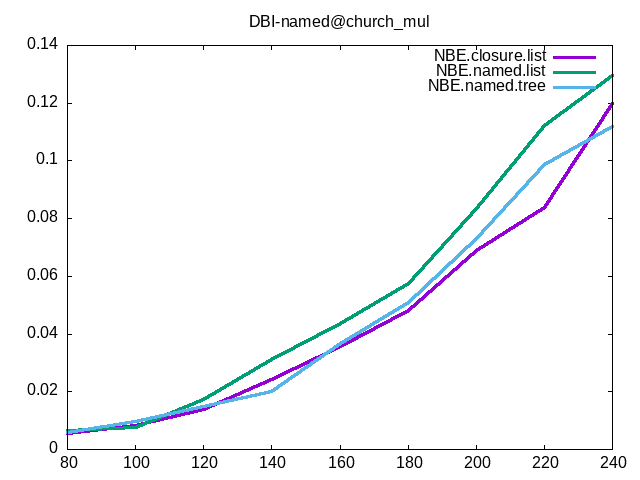
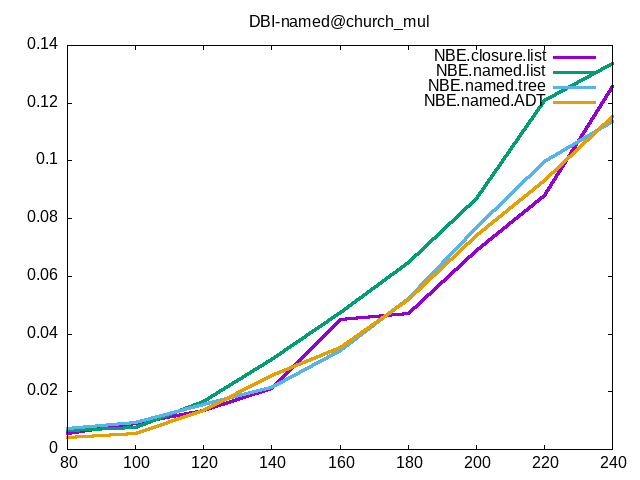
add NBE for named terms with ADT of inlined association list as environment

Changed region(s): [[0.0938, 0.125, 0.9688, 0.9375]]

diff --git a/README.md b/README.md
@@ -66,10 +66,12 @@ which includes:
 - `NBE.closure.list|tree` (in `NBE_Closure.ml`):
 NBE, using raw lambda terms to represent closures.
 Come with two flavors of environment data structure too
-- `NBE.named.list|tree` (in `NBE_Named.ml`):
+- `NBE.named.list|tree|ADT` (in `NBE_Named.ml`):
 NBE, but using a named term representation instead of de Brujin index.
 Uses a global counter for fresh variable generation.
-Environment is represented as association list or OCaml's AVL tree (`Map`)
+Environment is represented as association list,
+OCaml's AVL tree (`Map`),
+or a specialized ADT with the pairs in association list inlined.
 - `NBE.memo.v1|v2|v3|v4` (in `NBE_Memo.ml`)
 Same as `NBE.closure.list`,
 but each value memorizes the term it quotes back to (at some level).
@@ -414,6 +416,10 @@ Again, the length of the environment of bound variables is small in the benchmar
 So the setting of the benchmarks may be unfair to balanced trees.
 But in practice, the number of bound variables is usually small, too.
 
+Inlining pairs in association list should in theory reduces
+some indirectons when looking up variables.
+And the results shows that it indeed brings some slight boost.
+This is in agreement with the results of abstract machine variants below.
 
 ### abstract machine variants
 The three tested abstract machine variants are CBN,
